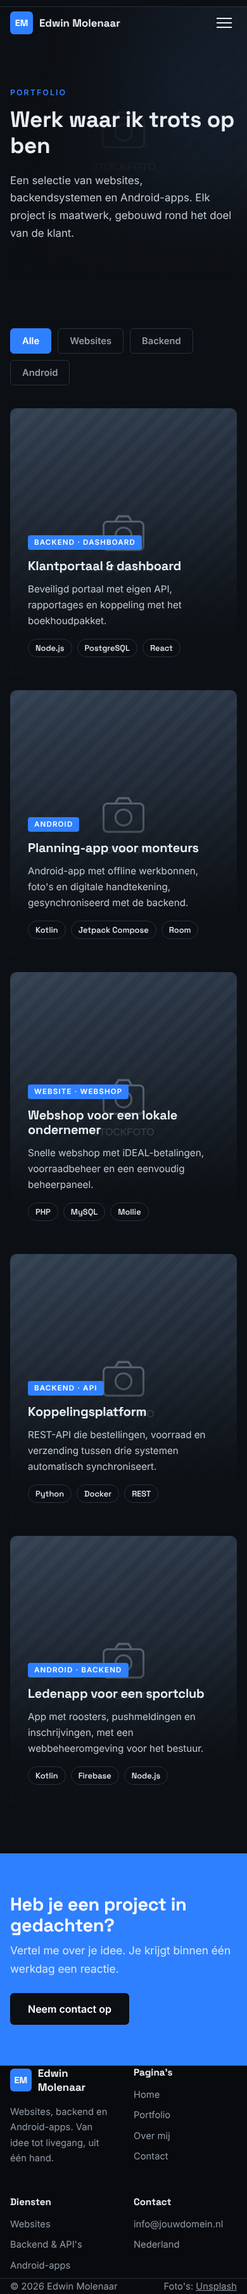
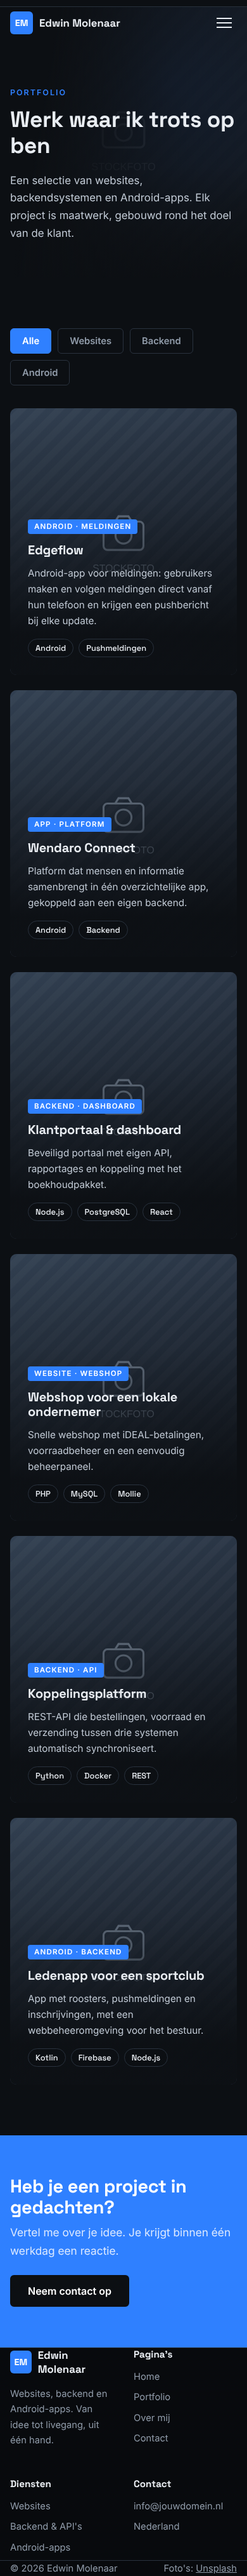
Replace technician planning app with Edgeflow and Wendaro Connect in portfolio
Claude-Session: https://claude.ai/code/session_01BR2aM2KyyCs7b3zr3d6H45

diff --git a/index.html b/index.html
@@ -132,28 +132,28 @@
           <a href="portfolio.html" class="link-arrow">Alle projecten &rarr;</a>
         </div>
         <div class="projects">
+          <article class="project" data-cat="android">
+            <img src="https://images.unsplash.com/photo-1551650975-87deedd944c3?auto=format&fit=crop&w=900&q=70" alt="" loading="lazy">
+            <div class="project-body">
+              <span class="tag">Android · Meldingen</span>
+              <h3>Edgeflow</h3>
+              <p>Android-app voor meldingen: gebruikers maken en volgen meldingen direct vanaf hun telefoon en krijgen een pushbericht bij elke update.</p>
+            </div>
+          </article>
+          <article class="project" data-cat="android">
+            <img src="https://images.unsplash.com/photo-1551434678-e076c223a692?auto=format&fit=crop&w=900&q=70" alt="" loading="lazy">
+            <div class="project-body">
+              <span class="tag">App · Platform</span>
+              <h3>Wendaro Connect</h3>
+              <p>Platform dat mensen en informatie samenbrengt in één overzichtelijke app, gekoppeld aan een eigen backend.</p>
+            </div>
+          </article>
           <article class="project" data-cat="backend">
             <img src="https://images.unsplash.com/photo-1460925895917-afdab827c52f?auto=format&fit=crop&w=900&q=70" alt="" loading="lazy">
             <div class="project-body">
               <span class="tag">Backend · Dashboard</span>
               <h3>Klantportaal &amp; dashboard</h3>
               <p>Beveiligd portaal met eigen API, rapportages en koppeling met het boekhoudpakket.</p>
-            </div>
-          </article>
-          <article class="project" data-cat="android">
-            <img src="https://images.unsplash.com/photo-1551650975-87deedd944c3?auto=format&fit=crop&w=900&q=70" alt="" loading="lazy">
-            <div class="project-body">
-              <span class="tag">Android</span>
-              <h3>Planning-app voor monteurs</h3>
-              <p>Android-app met offline werkbonnen, foto's en digitale handtekening, gesynchroniseerd met de backend.</p>
-            </div>
-          </article>
-          <article class="project" data-cat="web">
-            <img src="https://images.unsplash.com/photo-1556742049-0cfed4f6a45d?auto=format&fit=crop&w=900&q=70" alt="" loading="lazy">
-            <div class="project-body">
-              <span class="tag">Website · Webshop</span>
-              <h3>Webshop voor een lokale ondernemer</h3>
-              <p>Snelle webshop met iDEAL-betalingen, voorraadbeheer en een eenvoudig beheerpaneel.</p>
             </div>
           </article>
         </div>

diff --git a/portfolio.html b/portfolio.html
@@ -47,6 +47,24 @@
           <button class="filter" data-filter="android">Android</button>
         </div>
         <div class="projects" id="project-grid">
+          <article class="project" data-cat="android">
+            <img src="https://images.unsplash.com/photo-1551650975-87deedd944c3?auto=format&fit=crop&w=900&q=70" alt="" loading="lazy">
+            <div class="project-body">
+              <span class="tag">Android · Meldingen</span>
+              <h3>Edgeflow</h3>
+              <p>Android-app voor meldingen: gebruikers maken en volgen meldingen direct vanaf hun telefoon en krijgen een pushbericht bij elke update.</p>
+              <div class="tech-tags"><span>Android</span><span>Pushmeldingen</span></div>
+            </div>
+          </article>
+          <article class="project" data-cat="android">
+            <img src="https://images.unsplash.com/photo-1551434678-e076c223a692?auto=format&fit=crop&w=900&q=70" alt="" loading="lazy">
+            <div class="project-body">
+              <span class="tag">App · Platform</span>
+              <h3>Wendaro Connect</h3>
+              <p>Platform dat mensen en informatie samenbrengt in één overzichtelijke app, gekoppeld aan een eigen backend.</p>
+              <div class="tech-tags"><span>Android</span><span>Backend</span></div>
+            </div>
+          </article>
           <article class="project" data-cat="backend">
             <img src="https://images.unsplash.com/photo-1460925895917-afdab827c52f?auto=format&fit=crop&w=900&q=70" alt="" loading="lazy">
             <div class="project-body">
@@ -54,15 +72,6 @@
               <h3>Klantportaal &amp; dashboard</h3>
               <p>Beveiligd portaal met eigen API, rapportages en koppeling met het boekhoudpakket.</p>
               <div class="tech-tags"><span>Node.js</span><span>PostgreSQL</span><span>React</span></div>
-            </div>
-          </article>
-          <article class="project" data-cat="android">
-            <img src="https://images.unsplash.com/photo-1551650975-87deedd944c3?auto=format&fit=crop&w=900&q=70" alt="" loading="lazy">
-            <div class="project-body">
-              <span class="tag">Android</span>
-              <h3>Planning-app voor monteurs</h3>
-              <p>Android-app met offline werkbonnen, foto's en digitale handtekening, gesynchroniseerd met de backend.</p>
-              <div class="tech-tags"><span>Kotlin</span><span>Jetpack Compose</span><span>Room</span></div>
             </div>
           </article>
           <article class="project" data-cat="web">
